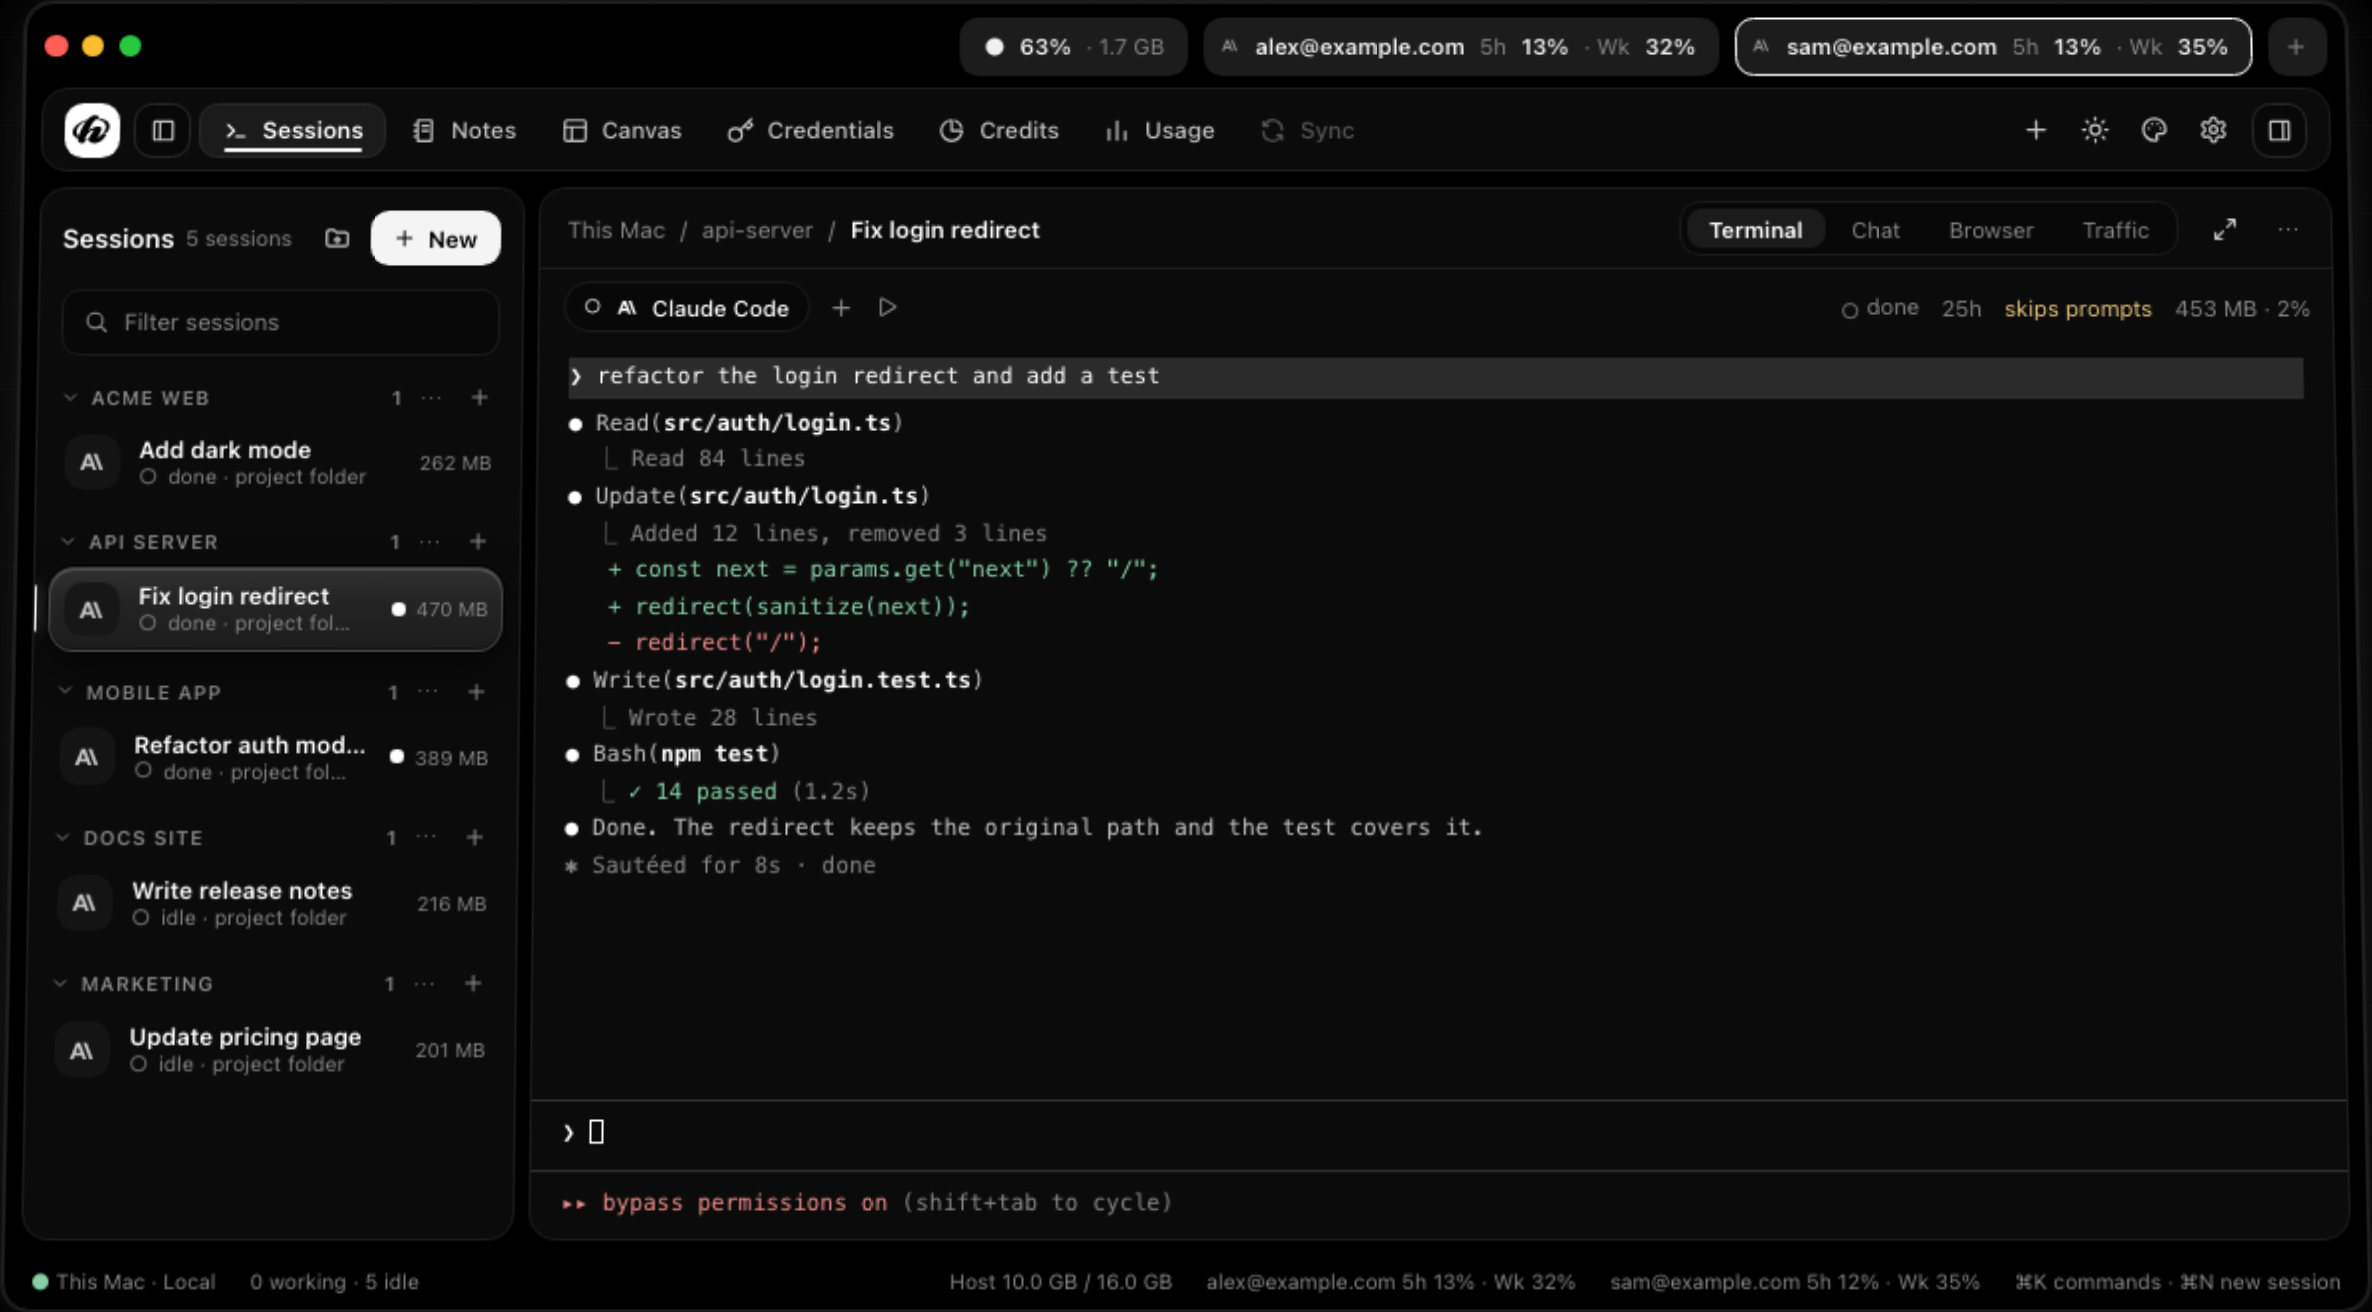
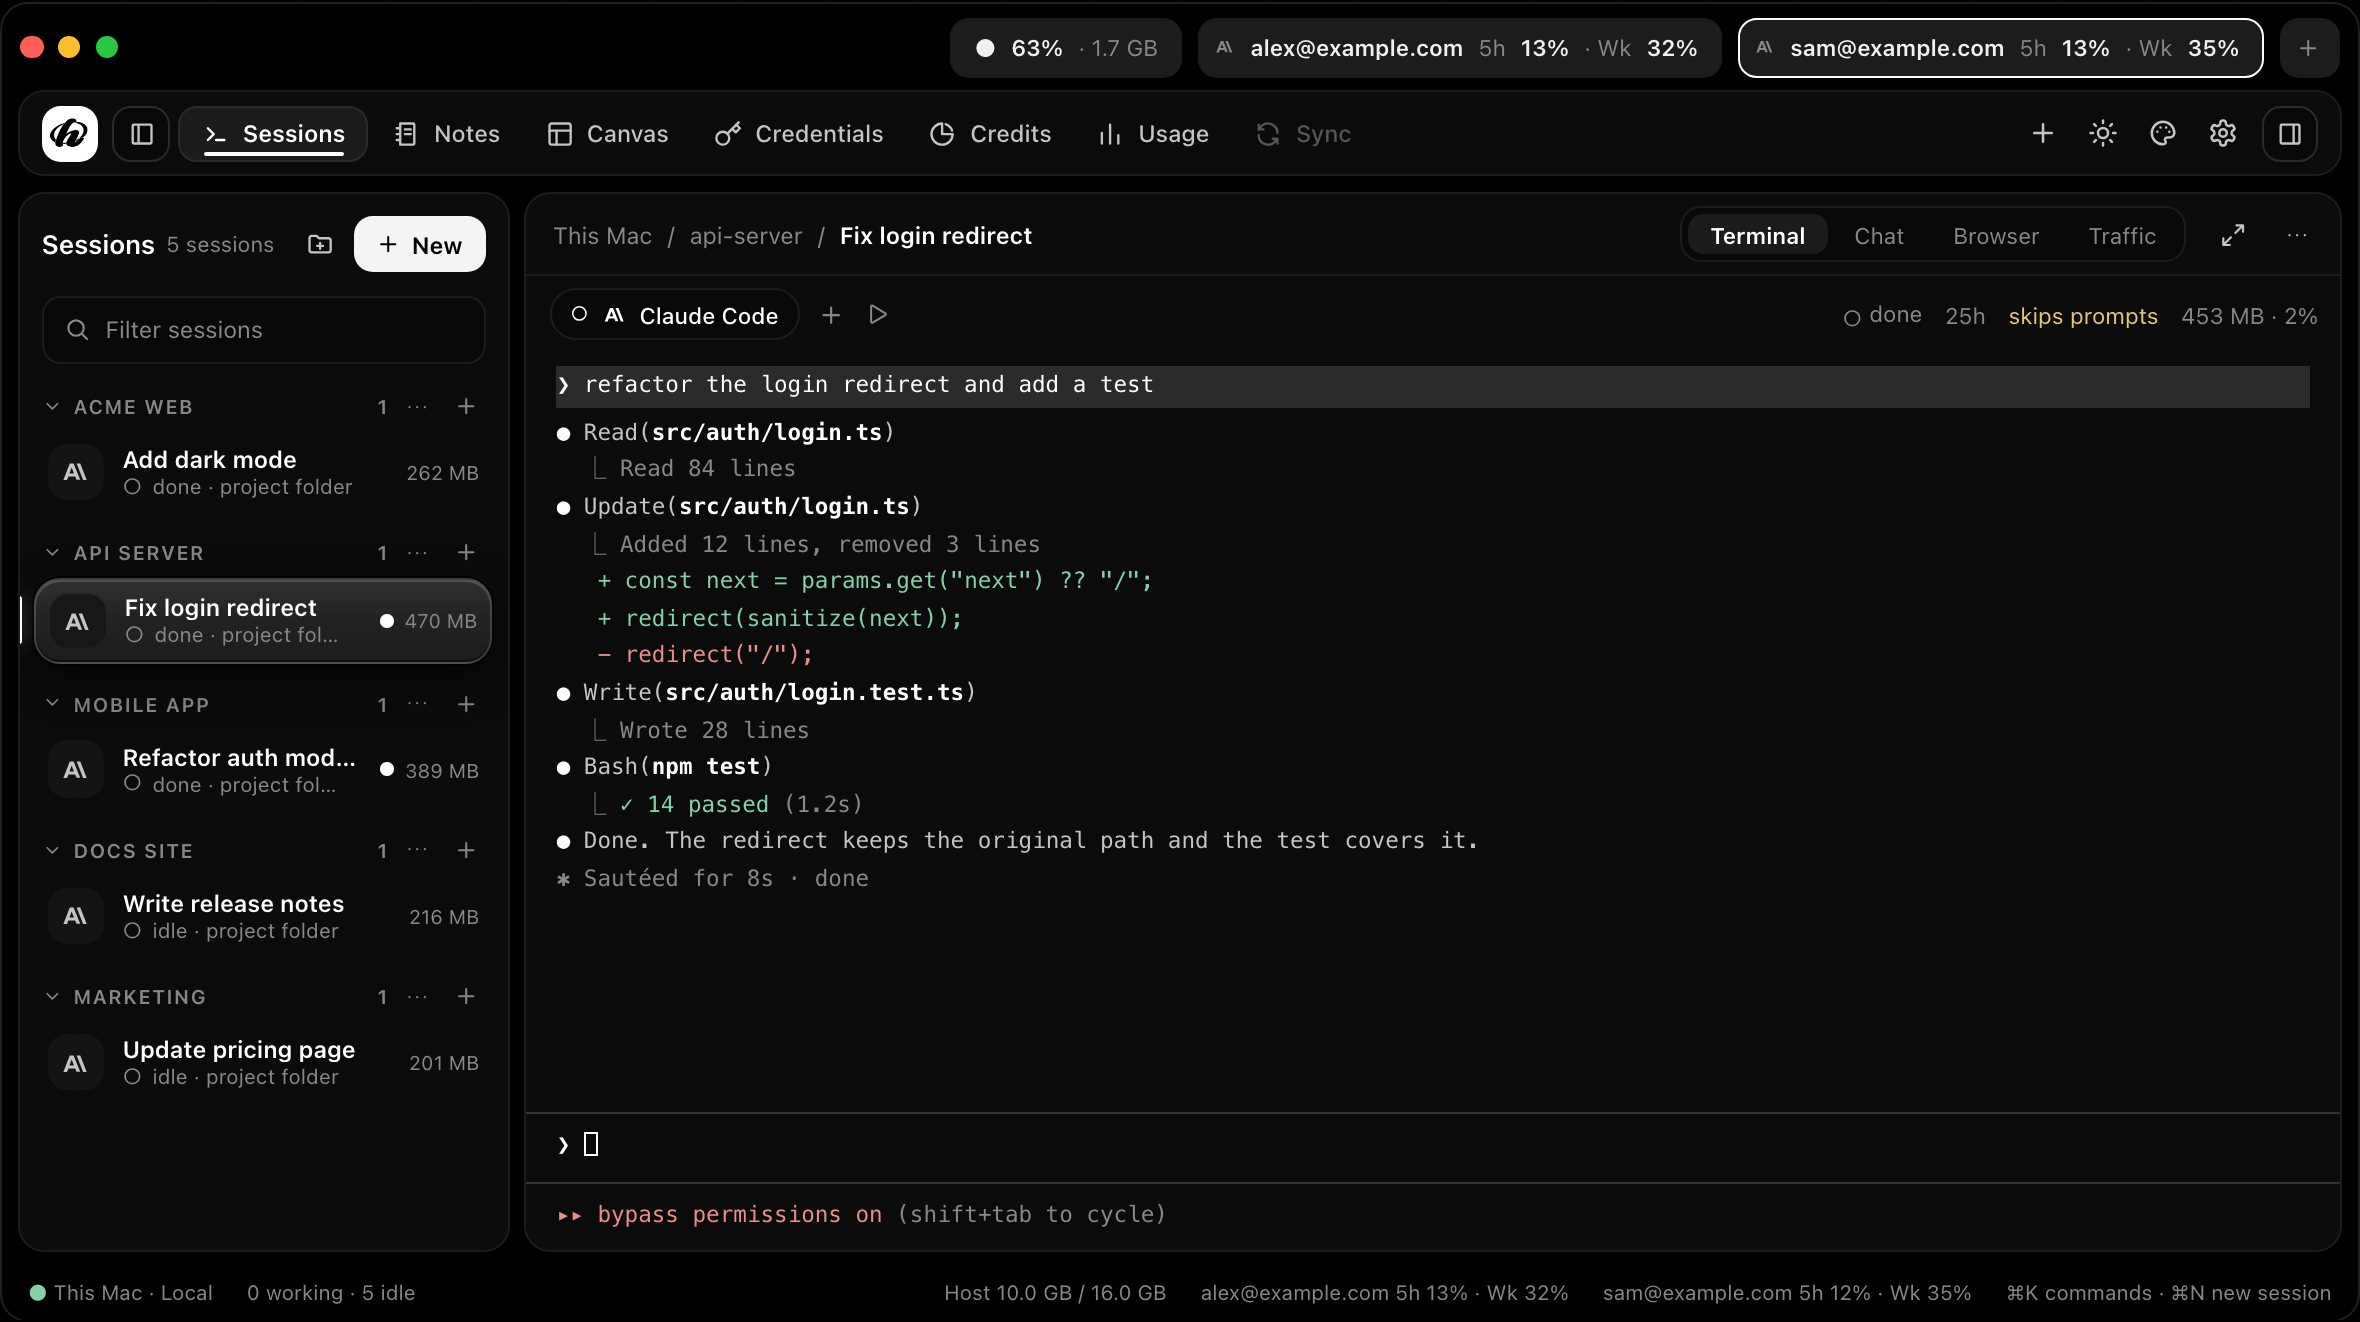
README: straight-on screenshots and more views

diff --git a/README.md b/README.md
@@ -18,10 +18,10 @@
 </p>
 
 <p align="center">
-  <img src="docs/assets/app.png" alt="hustleX: a prompt sent to an agent, its work shown live in the terminal" width="860">
+  <img src="docs/assets/app.png" alt="hustleX with a Claude Code session that has just finished a change" width="860">
 </p>
 
-<sub align="center">The images on this page use sample data.</sub>
+<p align="center"><sub>Every image on this page uses sample data.</sub></p>
 
 ## What it does
 
@@ -36,10 +36,20 @@
 - **Command line.** `hustlex-app` lets scripts, and agents, start and manage sessions.
 - **Light on memory.** The app is written in Go with [MyGo](https://mygo.egoist.dev/), not a bundled browser, and idle agents hibernate.
 
-<p align="center">
-  <img src="docs/assets/accounts.png" alt="Switching an agent session to another account when one runs low" width="420">
-  <img src="docs/assets/hosts.png" alt="A laptop connected to a server over SSH" width="420">
-</p>
+<table>
+<tr>
+<td width="50%"><img src="docs/assets/compare.png" alt="Compare: one prompt given to three agents, each on its own branch"><br><sub>Compare agents on the same prompt</sub></td>
+<td width="50%"><img src="docs/assets/review.png" alt="A session's diff with a warning that another session changed the same lines"><br><sub>Review a session's diff, then commit or merge</sub></td>
+</tr>
+<tr>
+<td><img src="docs/assets/chat.png" alt="The chat view of a Claude Code session with tool calls and a diff"><br><sub>Chat view for Claude Code and Codex</sub></td>
+<td><img src="docs/assets/traffic.png" alt="The Traffic tool: a list of requests and the selected request's headers and body"><br><sub>Traffic: see, mock and pause an app's HTTP</sub></td>
+</tr>
+<tr>
+<td><img src="docs/assets/notes.png" alt="A note with a checklist, a callout and an agent's proposed change"><br><sub>Notes an agent can help with</sub></td>
+<td><img src="docs/assets/accounts.png" alt="Moving a session to another account when one runs low"><br><sub>Several accounts, one session moved between them</sub></td>
+</tr>
+</table>
 
 Works with Claude Code, Codex, OpenCode, Gemini CLI, Aider, Goose, Cursor and many more, plus any program you can run in a terminal. The list and how each one is started is in [docs/agents.md](docs/agents.md).
 
